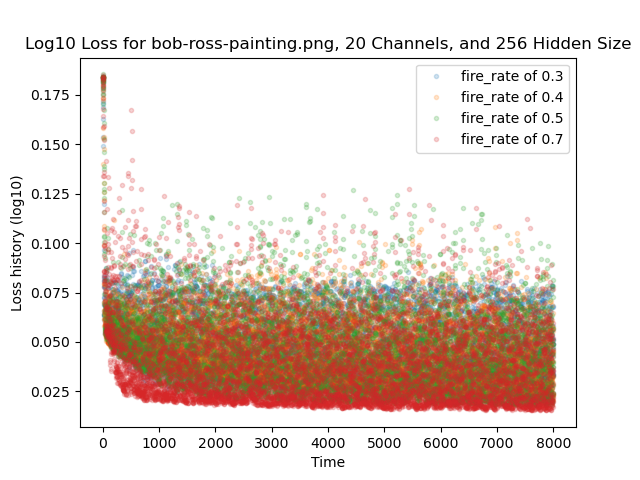
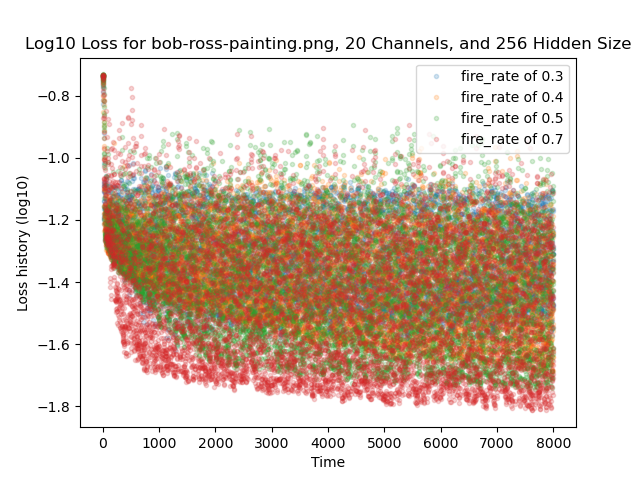
fire rate

diff --git a/caproject/experiments.py b/caproject/experiments.py
@@ -287,9 +287,9 @@ class Experiments:
         tf.keras.backend.clear_session()
       del ca
 
-      plt.plot(loss_log, '.', alpha=0.2, label=f'fire_rate of {cell_fire_rate}')
+      plt.plot(np.log10(loss_log), '.', alpha=0.2, label=f'fire_rate of {cell_fire_rate}')
       # Append to big dictionary
-      loss_log_dict[cell_fire_rate] = loss_log
+      loss_log_dict[cell_fire_rate] = np.log10(loss_log)
 
     plt.legend()
     plt.title(f'Log10 Loss for {image_name}.png, {channel_n} Channels, and {hidden_size} Hidden Size')
@@ -354,7 +354,7 @@ class Experiments:
         tf.keras.backend.clear_session()
       del ca
 
-      plt.plot(loss_log, '.', alpha=0.3, label=f'step_size of {step_size}')
+      plt.plot(np.log10(loss_log), '.', alpha=0.3, label=f'step_size of {step_size}')
 
     plt.xlabel('Time')
     plt.ylabel('Loss history (log10)') 

diff --git a/caproject/main.py b/caproject/main.py
@@ -101,8 +101,8 @@ def main():
 
             image_name = 'bob-ross-painting'
             target_size = 135
-            channel_n, hidden_size = 20, 256
-            cell_fire_rates = [0.3, 0.4, 0.5, 0.7]
+            channel_n, hidden_size = 24, 256
+            cell_fire_rates = [0.3, 0.7, 0.5, 0.4]
             
             experiments.experiment3(image_name=image_name, target_size=target_size, channel_n=channel_n, 
                                     hidden_size=hidden_size, cell_fire_rates=cell_fire_rates)
